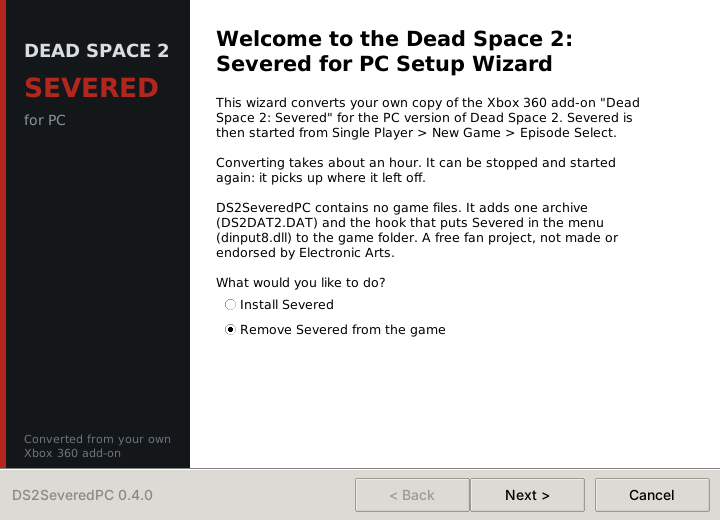
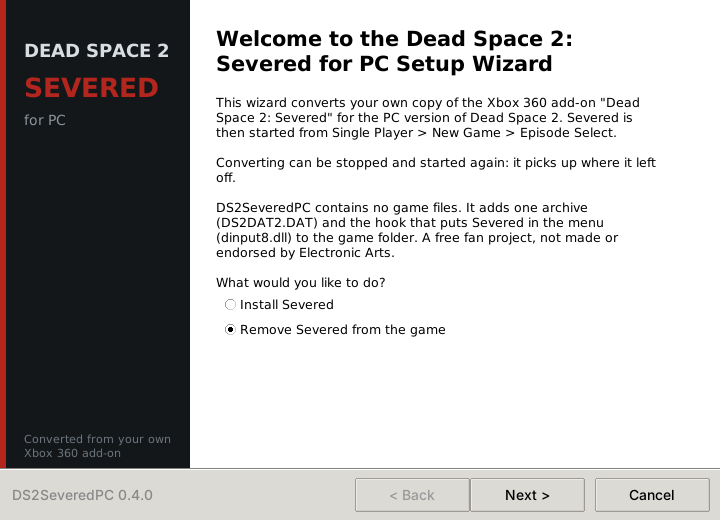
App: run ffmpeg hidden, log every file the converter works on, drop the time estimate
ffmpeg opened a console window per audio layer from the windowed app;
it now runs with CREATE_NO_WINDOW. The conversion logs each file it
unpacks, converts or copies with a [n/total] counter, so the app's
terminal shows all the work.

Changed region(s): [[0.3056, 0.3077, 0.9167, 0.3692]]

diff --git a/tools/research/ds2/build.py b/tools/research/ds2/build.py
@@ -122,34 +122,42 @@ def build(src, dst, log=print):
     report = collections.defaultdict(list)
     sizes = {}
     tocs = []
-    for d, _, files in os.walk(src):
-        for f in sorted(files):
-            p = os.path.join(d, f)
-            rel = os.path.relpath(p, src)
-            q = os.path.join(dst, rel)
-            os.makedirs(os.path.dirname(q), exist_ok=True)
-            ext = os.path.splitext(f)[1].lower()
-            if ext == '.str':
-                out, total = convert_stream(open(p, 'rb').read(), report)
-                open(q, 'wb').write(out)
-                sizes[os.path.splitext(rel)[0].replace('/', '\\').lower()] = total
-                log('stream %s: %d bytes' % (rel, len(out)))
-            elif ext == '.toc':
-                tocs.append((p, q))
-            elif ext == '.snu':
-                if os.path.exists(q) and os.path.getsize(q):
-                    continue                      # converted by an earlier run
-                from . import snu
-                y = snu.convert(open(p, 'rb').read())
-                if y is None:
-                    report['not converted: snu'].append(rel)
-                else:
-                    open(q, 'wb').write(y)
-            elif ext in COPY:
-                open(q, 'wb').write(open(p, 'rb').read())
+    todo = [os.path.join(d, f) for d, _, files in os.walk(src) for f in sorted(files)]
+    count = len(todo)
+    for i, p in enumerate(todo, 1):
+        f = os.path.basename(p)
+        rel = os.path.relpath(p, src)
+        q = os.path.join(dst, rel)
+        os.makedirs(os.path.dirname(q), exist_ok=True)
+        ext = os.path.splitext(f)[1].lower()
+        step = '  [%d/%d]' % (i, count)
+        if ext == '.str':
+            out, total = convert_stream(open(p, 'rb').read(), report)
+            open(q, 'wb').write(out)
+            sizes[os.path.splitext(rel)[0].replace('/', '\\').lower()] = total
+            log('%s stream %s: %d bytes' % (step, rel, len(out)))
+        elif ext == '.toc':
+            tocs.append((p, q))
+        elif ext == '.snu':
+            if os.path.exists(q) and os.path.getsize(q):
+                log('%s audio %s: converted by an earlier run' % (step, rel))
+                continue
+            from . import snu
+            y = snu.convert(open(p, 'rb').read())
+            if y is None:
+                report['not converted: snu'].append(rel)
+                log('%s audio %s: not converted' % (step, rel))
             else:
-                report['unknown file'].append(rel)
+                open(q, 'wb').write(y)
+                log('%s audio %s' % (step, rel))
+        elif ext in COPY:
+            open(q, 'wb').write(open(p, 'rb').read())
+            log('%s copied %s' % (step, rel))
+        else:
+            report['unknown file'].append(rel)
+            log('%s unknown file %s' % (step, rel))
     for p, q in tocs:
+        log('  table of contents %s' % os.path.relpath(p, src))
         x = open(p, 'rb').read()
         names = toc.parse(x)['stream_names']
         known = {n: sizes[n.lower()] for n in names if n.lower() in sizes}

diff --git a/tools/app/severed_installer.py b/tools/app/severed_installer.py
@@ -254,8 +254,7 @@ class Wizard:
             '\nThis wizard converts your own copy of the Xbox 360 add-on "Dead Space 2: '
             'Severed" for the PC version of Dead Space 2. Severed is then started from '
             'Single Player > New Game > Episode Select.\n\n'
-            'Converting takes about an hour. It can be stopped and started again: it '
-            'picks up where it left off.\n\n'
+            'Converting can be stopped and started again: it picks up where it left off.\n\n'
             'DS2SeveredPC contains no game files. It adds one archive (DS2DAT2.DAT) and the '
             'hook that puts Severed in the menu (dinput8.dll) to the game folder. A free fan project, not made or endorsed by Electronic Arts.\n\n'
             'What would you like to do?')).pack(anchor='w')
@@ -310,7 +309,7 @@ class Wizard:
     def page_installing(self):
         install = self.mode.get() == 'install'
         f = self.head_page('Installing' if install else 'Removing',
-                           'Please wait while Severed is converted. This takes about an hour.' if install
+                           'Please wait while Severed is converted.' if install
                            else 'Please wait.')
         self.status = ttk.Label(f, text='Starting...')
         self.status.pack(anchor='w')
@@ -498,7 +497,8 @@ def selftest():
     ff = bundled_ffmpeg()
     ffv = 'not found'
     if ff:
-        r = subprocess.run([ff, '-hide_banner', '-decoders'], capture_output=True, text=True)
+        r = subprocess.run([ff, '-hide_banner', '-decoders'], capture_output=True, text=True,
+                           creationflags=subprocess.CREATE_NO_WINDOW if WIN else 0)
         ffv = 'xma2 decoder ' + ('present' if ' xma2 ' in r.stdout else 'MISSING')
     hook = bundled_hook()
     hv = 'present' if hook and is_our_hook(hook) else 'MISSING'

diff --git a/tools/research/ds2/eaaudio.py b/tools/research/ds2/eaaudio.py
@@ -13,7 +13,7 @@ then codec data.
   codec 4 XAS v1 (PC): per 128 samples, 0x4C bytes per channel
     (4 group headers u32 LE + 15 rows of 4 bytes).
 """
-import os, struct, subprocess
+import os, struct, subprocess, sys
 
 CODEC_EAXMA, CODEC_XAS1 = 3, 4
 FFMPEG = os.environ.get('DS2_FFMPEG', 'ffmpeg')    # needs the xma2 decoder
@@ -85,6 +85,10 @@ def eaxma_layers(blk_iter, channels):
     return layers
 
 
+# ffmpeg runs hidden: from a windowed app each run would open its own console
+NO_WINDOW = subprocess.CREATE_NO_WINDOW if sys.platform == 'win32' else 0
+
+
 def decode_eaxma(blk_iter, channels, rate, samples, ffmpeg=None):
     """interleaved int16 PCM bytes"""
     ffmpeg = ffmpeg or FFMPEG
@@ -95,7 +99,7 @@ def decode_eaxma(blk_iter, channels, rate, samples, ffmpeg=None):
         lc = 1 if (i + 1 == len(layers) and channels % 2) else 2
         riff = _xma2_riff(bytes(d), lc, rate, samples)
         r = subprocess.run([ffmpeg, '-v', 'error', '-f', 'wav', '-i', '-', '-f', 's16le', '-acodec', 'pcm_s16le', '-'],
-                           input=riff, capture_output=True)
+                           input=riff, capture_output=True, creationflags=NO_WINDOW)
         if r.returncode:
             raise RuntimeError(r.stderr.decode()[:300])
         a = array.array('h', r.stdout)

diff --git a/tools/test/make_severed_test.py b/tools/test/make_severed_test.py
@@ -669,6 +669,7 @@ def main():
         log('Unpacking the Severed package')
         pkg = stfs.Package(open(a.severed, 'rb').read())
         for path, data in pkg.files():
+            log('  ' + path)
             q = os.path.join(src, *path.replace('\\', '/').split('/'))
             os.makedirs(os.path.dirname(q), exist_ok=True)
             open(q, 'wb').write(data)
@@ -696,7 +697,7 @@ def main():
 
     left_out = {}
     if not os.path.exists(os.path.join(work, 'converted.ok')):
-        log('Converting (this takes a while: about an hour)')
+        log('Converting the add-on\'s files')
         report = build.build(root, dst, log=log)
         left_out = {k: v for k, v in report.items() if not k.startswith(('converted', 'dropped'))}
         for k, v in sorted(report.items()):

diff --git a/README.md b/README.md
@@ -247,8 +247,8 @@ How it works:
 
    <p align="center"><img src="docs/img/install/install_3_ready.png" alt="Ready to install page" width="540"></p>
 
-   Converting takes about an hour. The window shows the current step and
-   the converter's log. If it stops or you cancel it, run the app again: it
+   The window shows the current step and every file the converter works
+   on. If it stops or you cancel it, run the app again: it
    picks up where it left off.
 
    <p align="center"><img src="docs/img/install/install_4_installing.png" alt="Installing page" width="540"></p>
